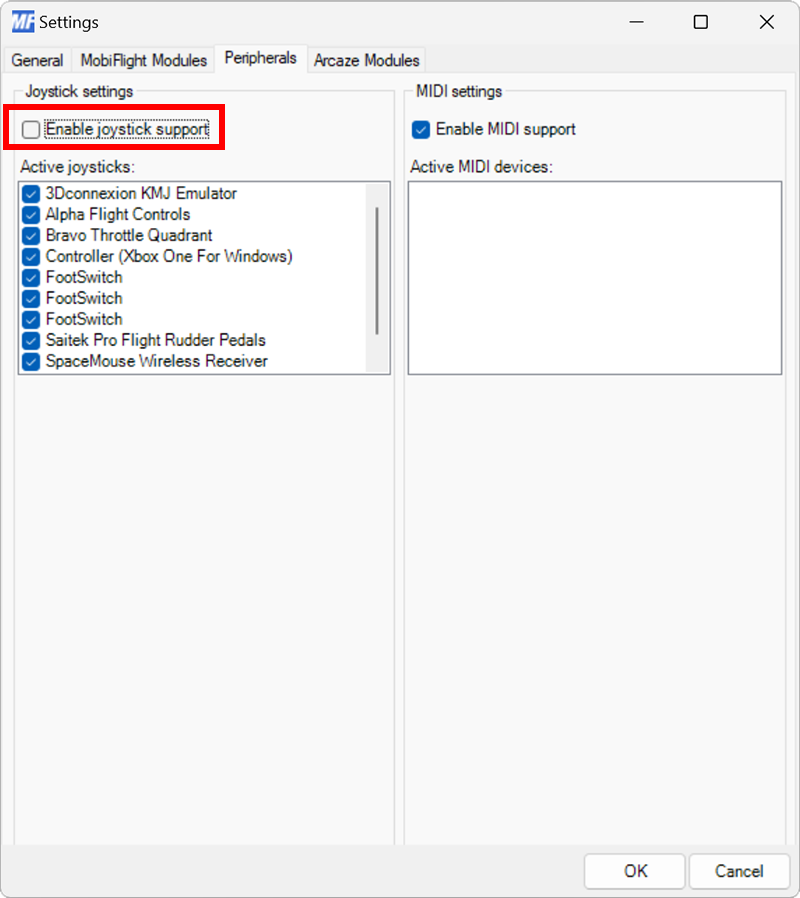
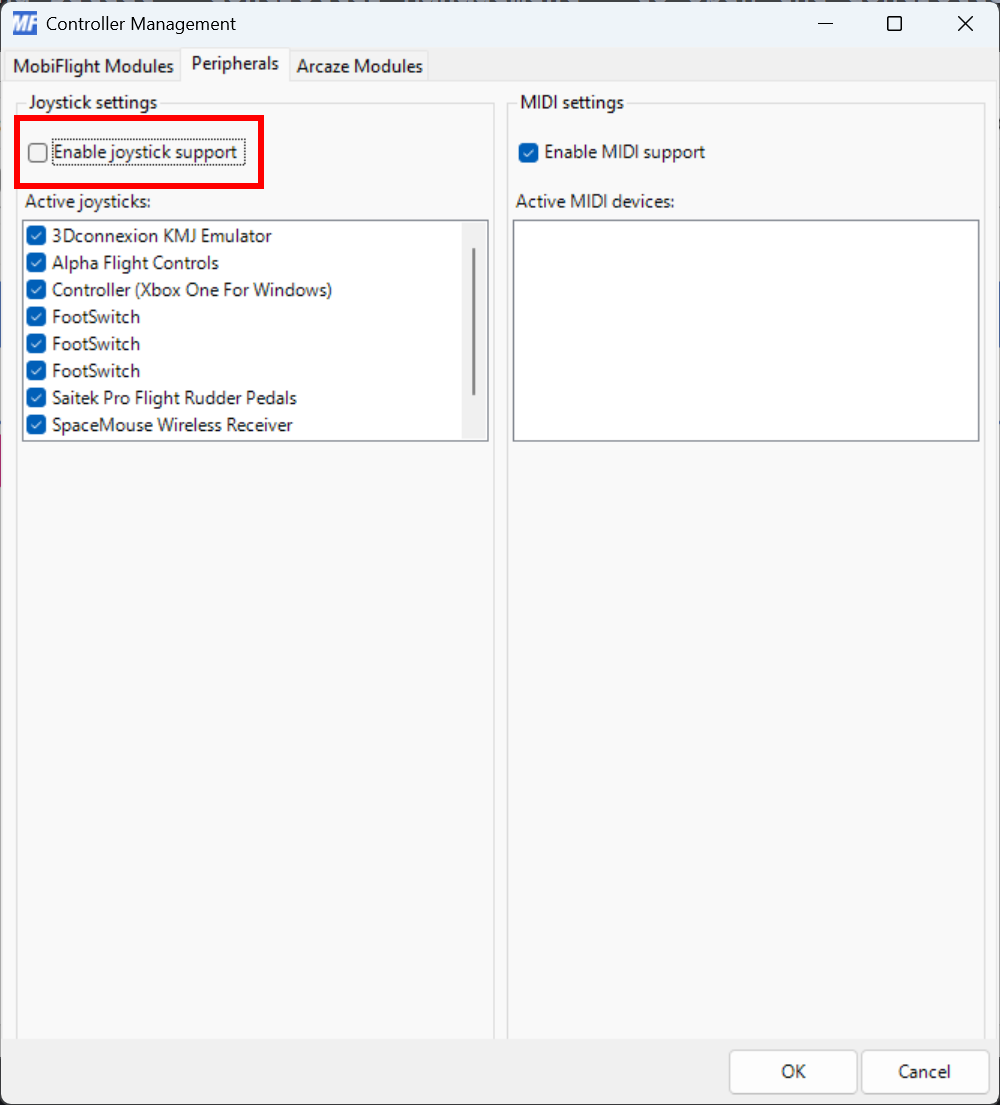
Game controllers

diff --git a/content/game-controllers/disabling/index.md b/content/game-controllers/disabling/index.md
@@ -17,11 +17,11 @@ You may want to disable MobiFlight's game controller support in certain situatio
 
 {{% steps %}}
 
-### Open the settings dialog
+### Open the Controller Management dialog
 
-Click on the **Extras** menu and select **Settings** to open the settings dialog.
+Click on the **Extras** menu and select **Controller Management** to open the Controller Management dialog.
 
-{{< screenshot image="extras-settings-menu-item.png" title="Screenshot of the Extras menu with the Settings menu item selected." >}}
+{{< screenshot image="/app/extras-controller-management-menu-item.png" title="Screenshot of the Extras menu with the Controller Management menu item selected." >}}
 
 ### Disable joystick support
 
@@ -37,11 +37,11 @@ On the **Peripherals** tab, uncheck the **Enable joystick support** checkbox.
 
 {{% steps %}}
 
-### Open the settings dialog
+### Open the Controller Management dialog
 
-Go to the **Extras** menu and select **Settings**.
+Click on the **Extras** menu and select **Controller Management** to open the Controller Management dialog.
 
-{{< screenshot image="extra-settings-menu-item.png" title="Screenshot of the Extras menu with the Settings menu item selected." >}}
+{{< screenshot image="/app/extras-controller-management-menu-item.png" title="Screenshot of the Extras menu with the Controller Management menu item selected." >}}
 
 ### Disable specific game controllers
 
